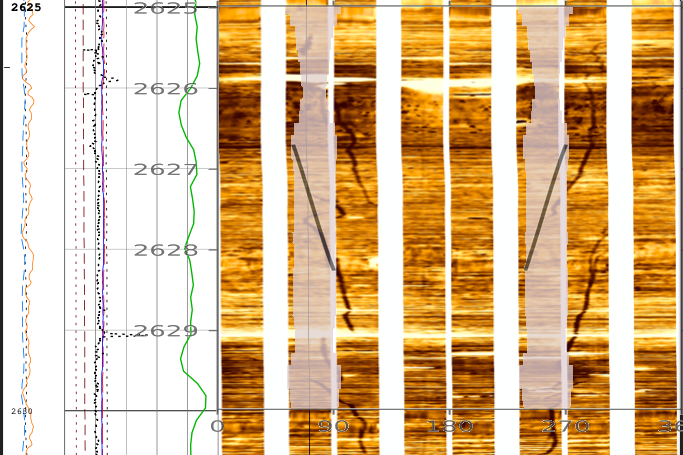
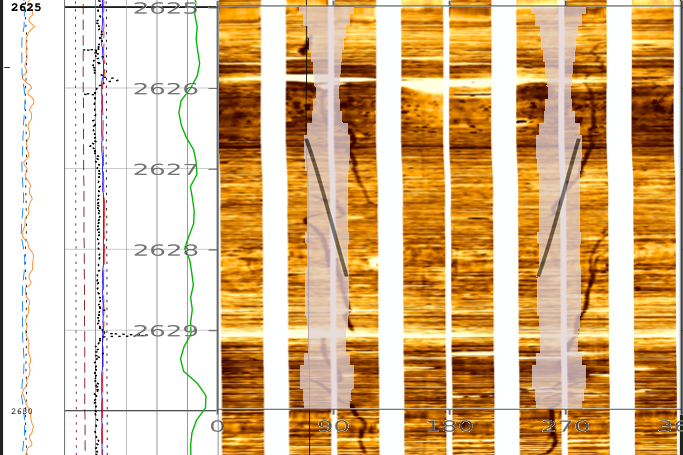
update docs

Changed region(s): [[0.3997, 0.0, 0.5227, 0.9231], [0.7379, 0.0, 0.8609, 0.9231]]

diff --git a/docs/Figures/combiner.py b/docs/Figures/combiner.py
@@ -66,7 +66,7 @@ def overlay_images(base_path, overlay_path, output_path,
 # Use the function
 result = overlay_images(
     'FMI-2630.png',        # Base image path
-    'PlotBHI 3.png',       # Overlay image path
+    'PlotBHI 4.png',       # Overlay image path
     'overlay2.png',         # Output path
     x_position=-168,       # Move overlay 100 pixels right
     y_position=-57,        # Move overlay 50 pixels down

diff --git a/docs/source/Examples.rst b/docs/source/Examples.rst
@@ -294,6 +294,8 @@ Digging deeper into the log data, we discover there's actually a proxy for SHmax
    :width: 600px
    :align: center
 
+These values are significantly different from the regional database values. Nevertheless, let us try the indicated value 114°:
+
 .. code-block:: python
 
     output = lst.compute_geomech(
@@ -317,12 +319,42 @@ Digging deeper into the log data, we discover there's actually a proxy for SHmax
         ten_fac=0
     )
 
+.. image:: ../Figures/resized/PlotBHI3.png
+   :alt: BHI Plot
+   :width: 600px
+   :align: center
+
+How about the maximum value of 124°? Clearly this is stretching things quite some, totally unrealistic I think. Here goes:
+
+.. code-block:: python
+
+    output = lst.compute_geomech(
+        wellwithdeviation,
+        attrib=attrib,
+        rhoappg=17.33,
+        lamb=0.00075,
+        forms=formations,
+        UCSs=ucs,
+        writeFile=True,
+        user_home="./output2",
+        offset=124,
+        dip_dir=180,
+        dip=2,
+        doi=2627.5,
+        mwvalues=[[1.26, 0.0, 0.0, 0.0, 0.0, 0]],
+        plotstart=2560,
+        plotend=2660,
+        mudtemp=35,
+        fracgradvals=xlot,
+        ten_fac=0
+    )
+
 .. image:: ../Figures/overlay2.png
    :alt: Overlay Plot
    :width: 600px
    :align: center
 
-Discussion and Limitations
+Discussion
 --------------------------
 
 There are some important caveats to consider:
